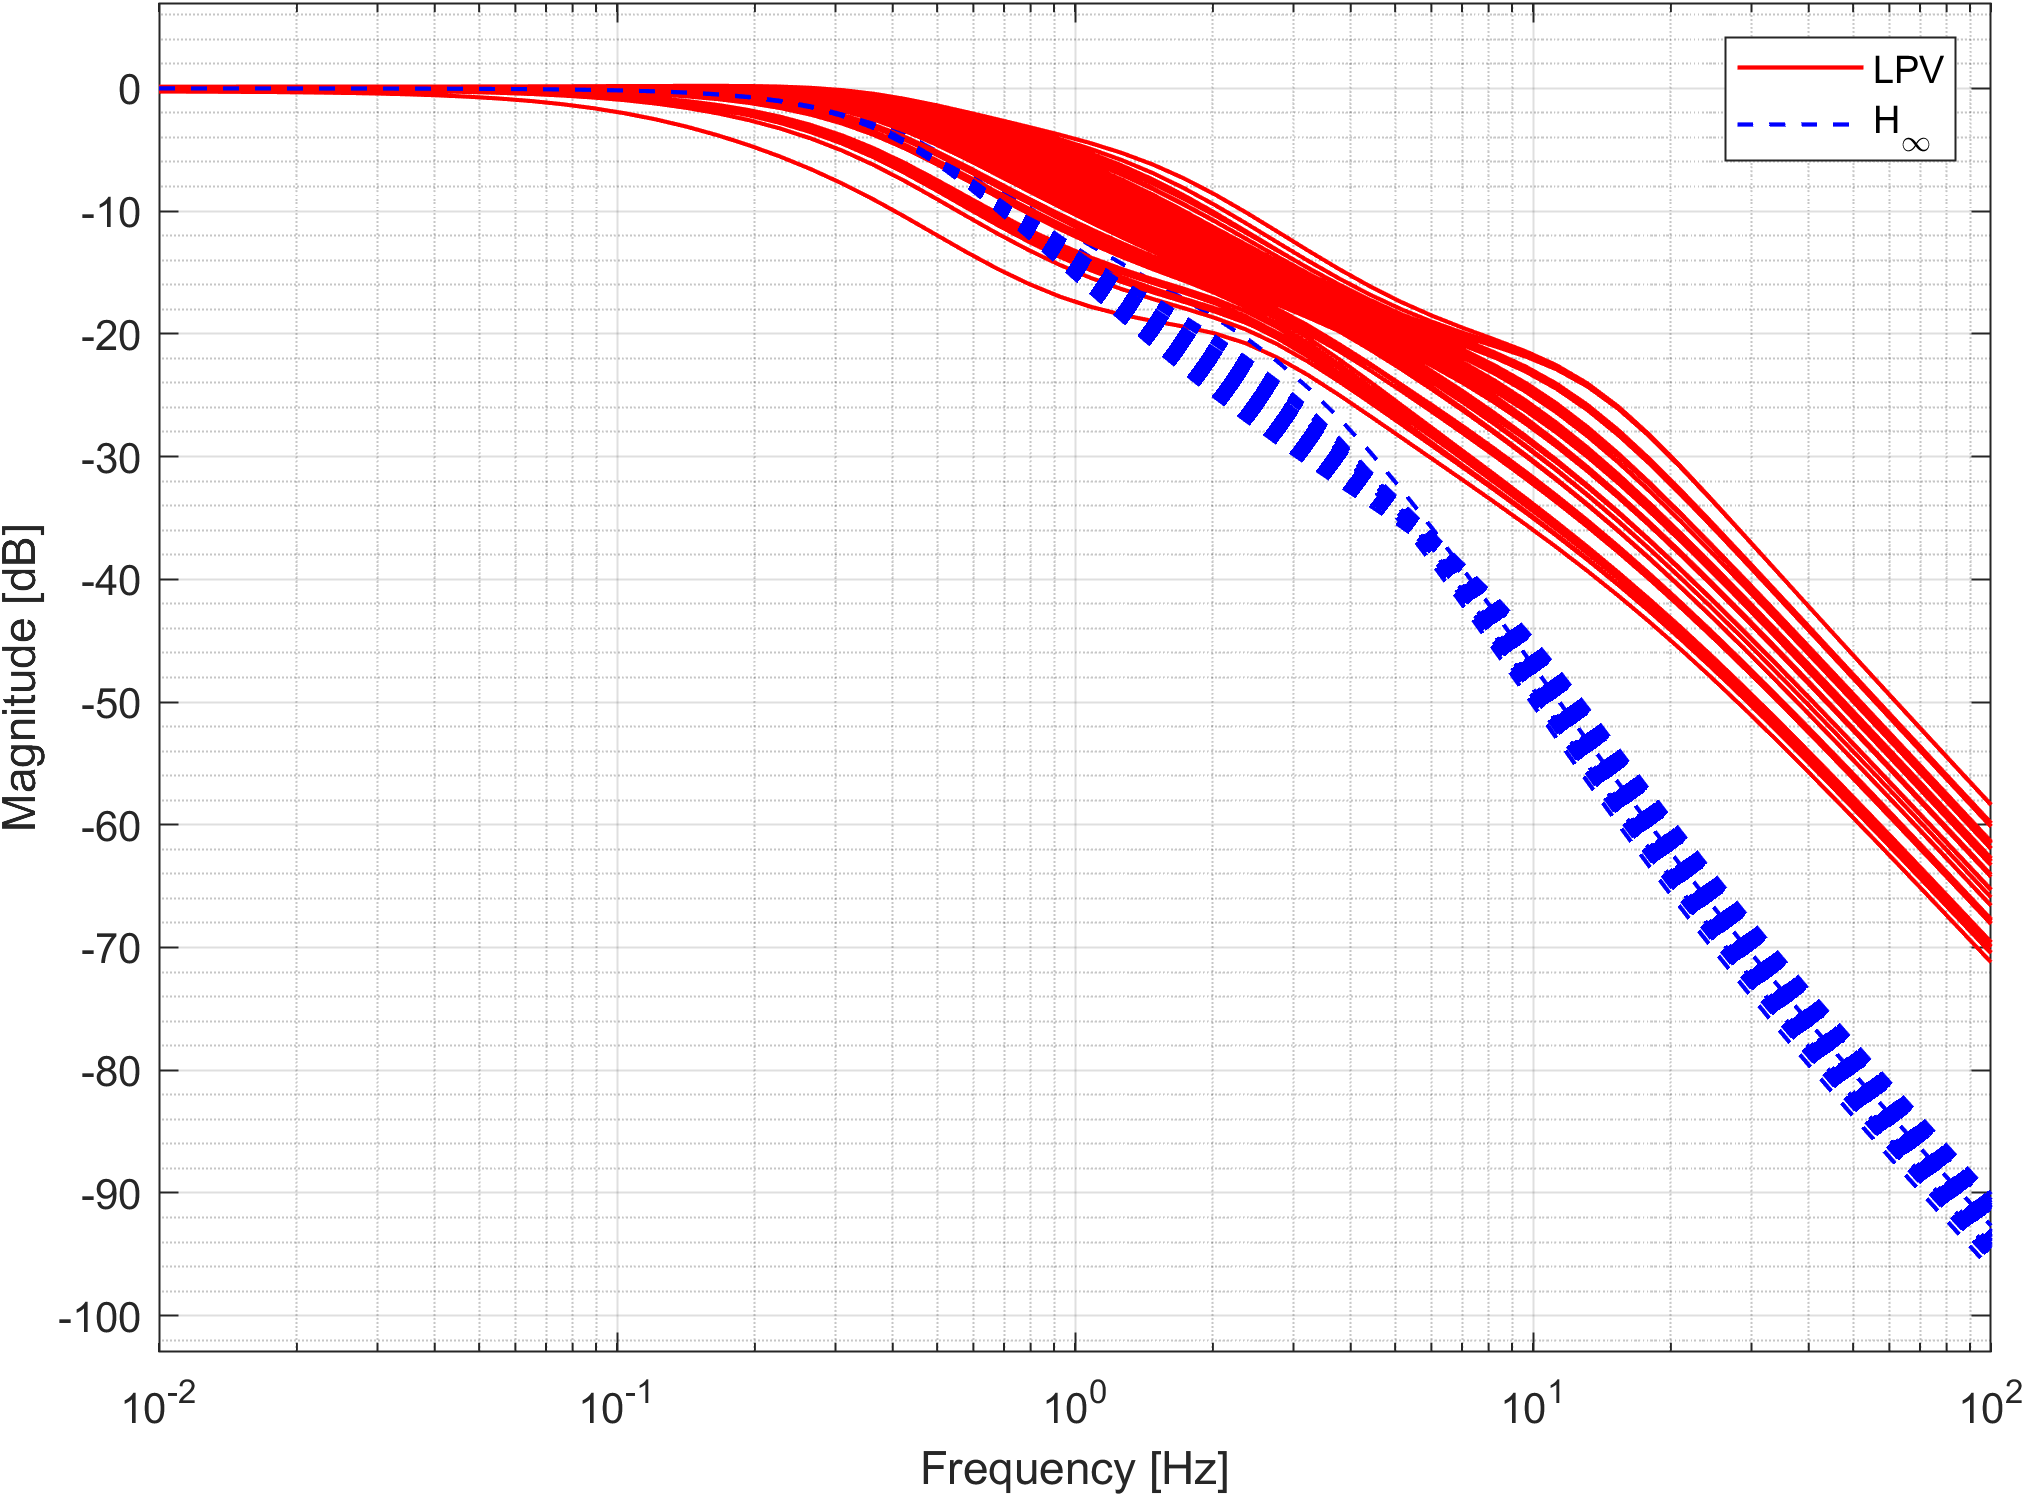
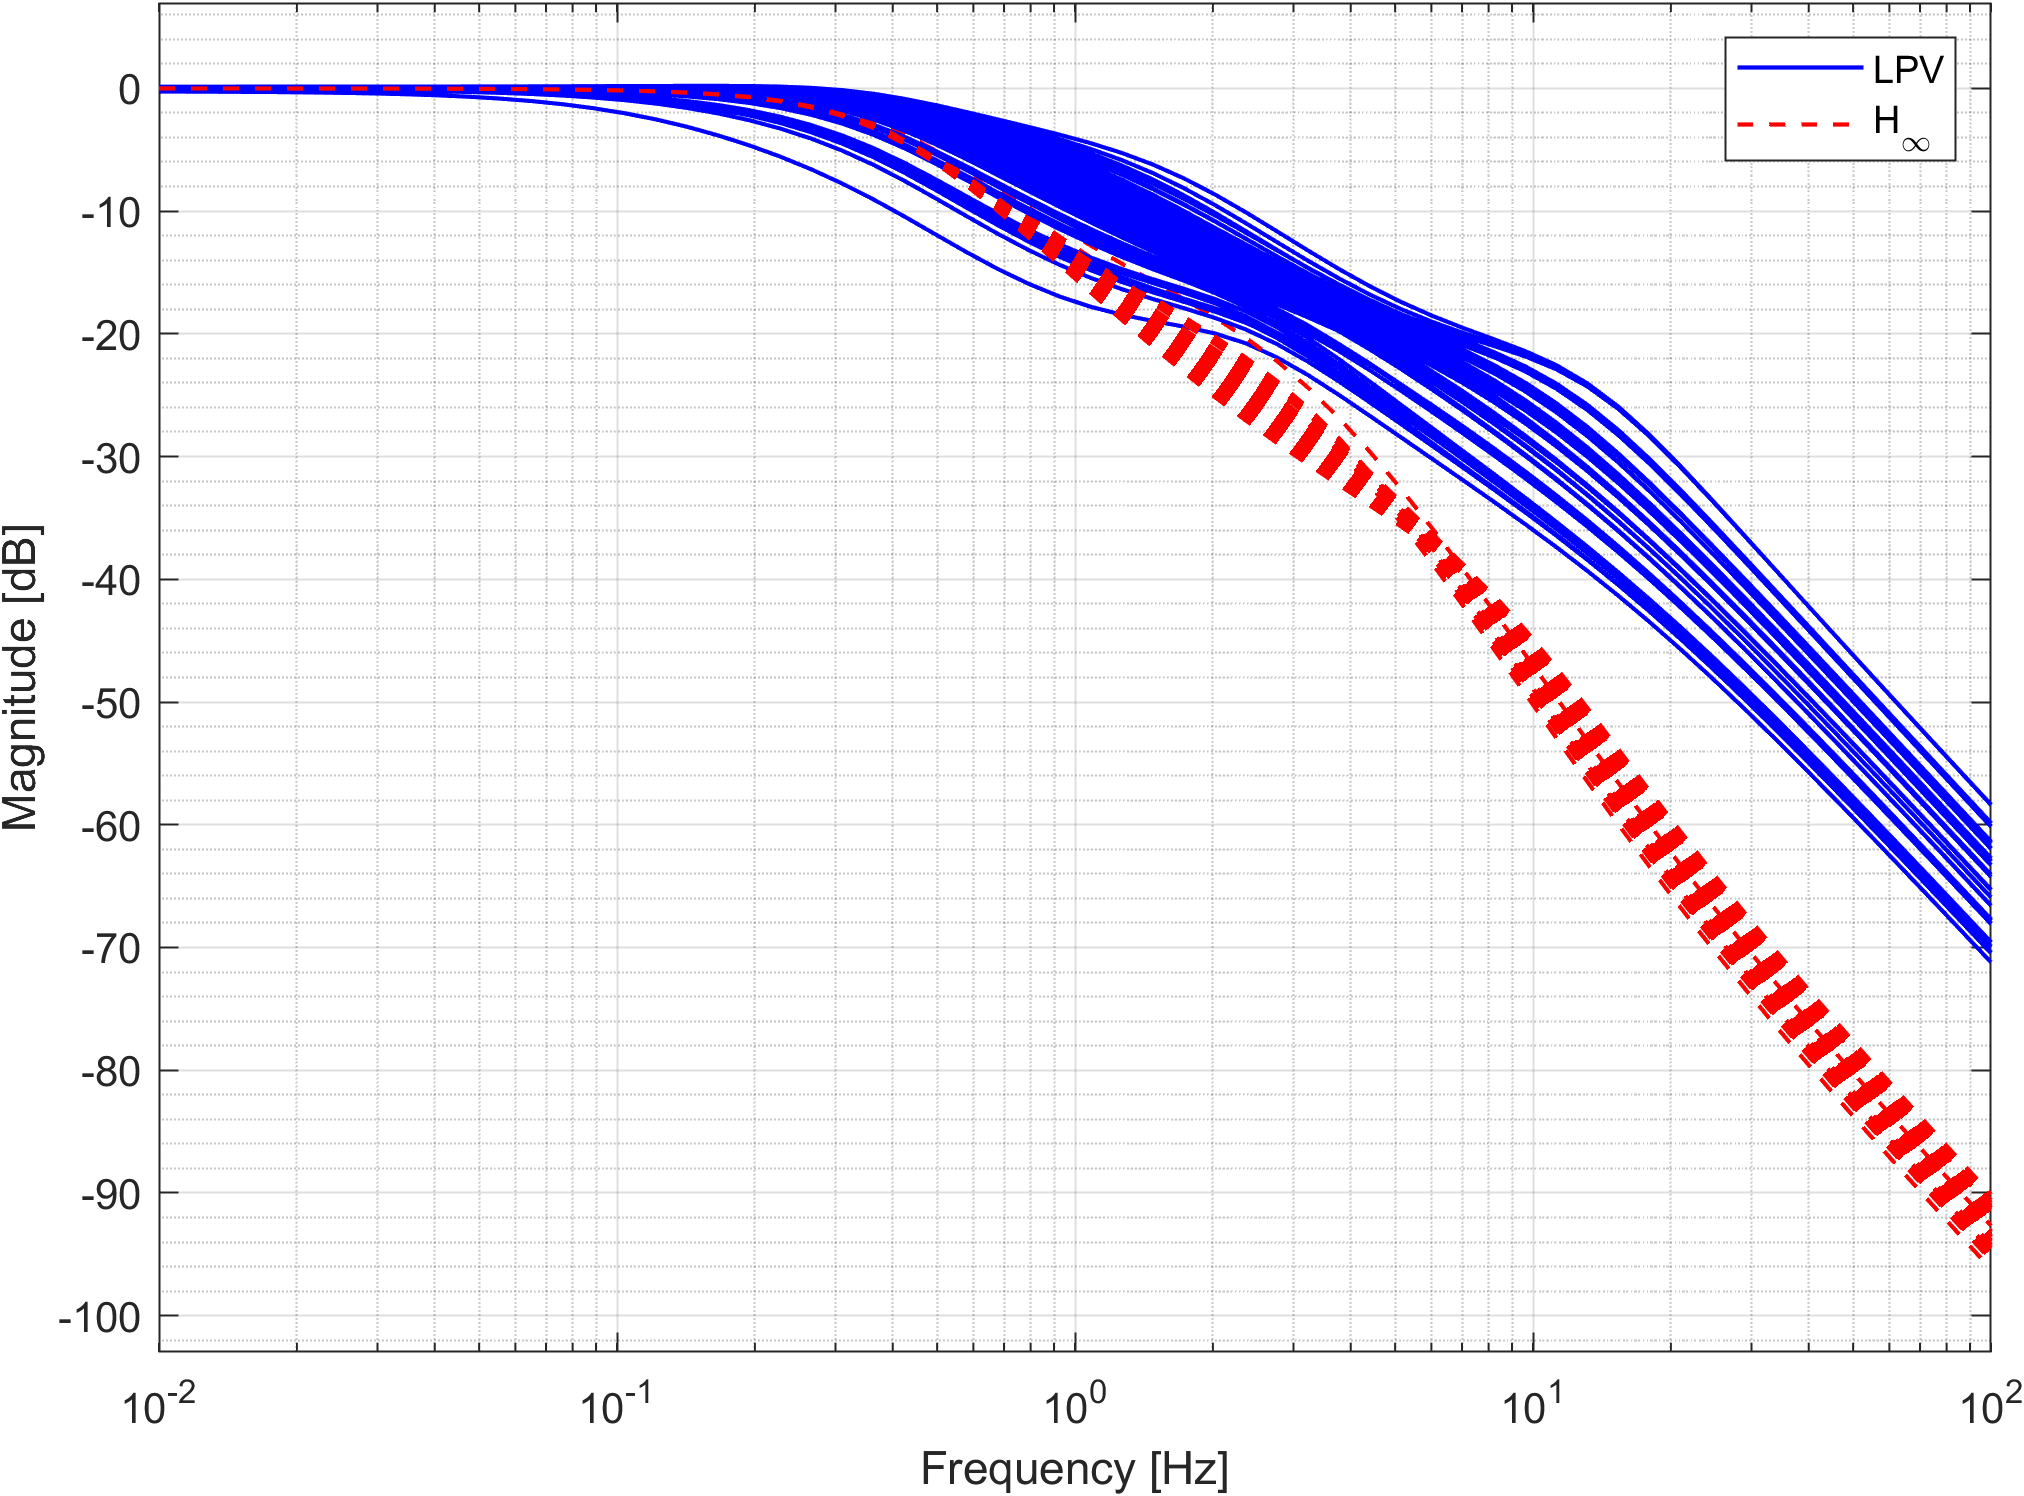
revert

Changed region(s): [[0.0934, 0.0307, 0.996, 0.6457], [0.7159, 0.369, 0.996, 0.8302], [0.8715, 0.0307, 0.9027, 0.0615]]

diff --git a/GTM_DesignSim/gtm_design/design/design_lon_cas.m b/GTM_DesignSim/gtm_design/design/design_lon_cas.m
@@ -73,24 +73,6 @@ timelon2hinf = toc;
 fprintf('lon2 Hinf Syn Time: %.1f sec \n',timelon2hinf)
 Klon2hinf = pss(Klon2hinf_grid,domain);
 
-% H2op synthesis
-clearvars Klon2h2op_grid gamlon2h2op_grid % clear old variables
-tic
-for i = 1:num_sas
-for j = 1:num_alt
-for k = 1:num_mor 
-    OLlon2_pt = OLlon2.Data(:,:,i,j,k);
-    [Klon2h2op_pt,~,gamlon2h2op_pt] = h2syn(OLlon2_pt,nmeaslon2,ncontlon2);
-    fprintf('lon2 H2op #%d Gam = %.5g\n',sub2ind([num_mor num_alt num_sas],k,j,i),gamlon2h2op_pt)
-    Klon2h2op_grid(:,:,i,j,k) = Klon2h2op_pt;
-    gamlon2h2op_grid(i,j,k) = gamlon2h2op_pt;
-end
-end
-end
-timelon2h2op = toc;
-fprintf('lon2 H2op Syn Time: %.1f sec \n',timelon2h2op)
-Klon2h2op = pss(Klon2h2op_grid,domain);
-
 % LPVu synthesis
 tic
 [Klon2lpvu,gamlon2lpvu,infolon2lpvu] = lpvsyn(OLlon2,nmeaslon2,ncontlon2);

diff --git a/GTM_DesignSim/gtm_design/plot/design/plot_bode.m b/GTM_DesignSim/gtm_design/plot/design/plot_bode.m
@@ -17,10 +17,10 @@ for k = 1:num_mor
     CLlpvu_pt = CLlpvu.Data(:,:,i,j,k);
     CLhinf_pt = CLhinf.Data(:,:,i,j,k);
     [mag,~,wout] = bode(CLlpvu_pt(onum,inum),w);
-    semilogx(wout/(2*pi),mag2db(squeeze(mag)/abs((Weights.Wr(inum,inum)*Weights.Ps(onum,onum)))),'r')
+    semilogx(wout/(2*pi),mag2db(squeeze(mag)/abs((Weights.Wr(inum,inum)*Weights.Ps(onum,onum)))),'b')
     hold on
     [mag,~,wout] = bode(CLhinf_pt(onum,inum),w);
-    semilogx(wout/(2*pi),mag2db(squeeze(mag)/abs((Weights.Wr(inum,inum)*Weights.Ps(onum,onum)))),'--b')
+    semilogx(wout/(2*pi),mag2db(squeeze(mag)/abs((Weights.Wr(inum,inum)*Weights.Ps(onum,onum)))),'--r')
     drawnow
 end
 end
